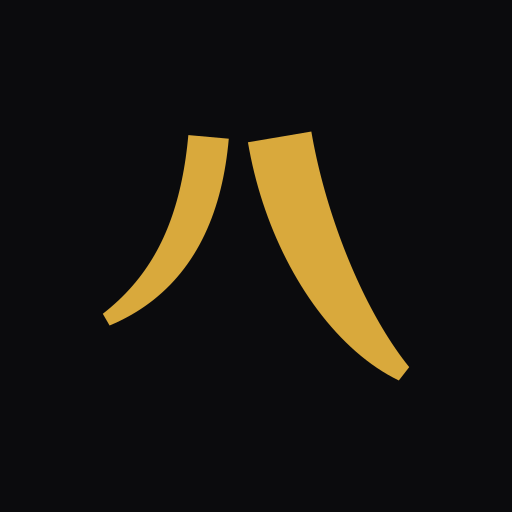
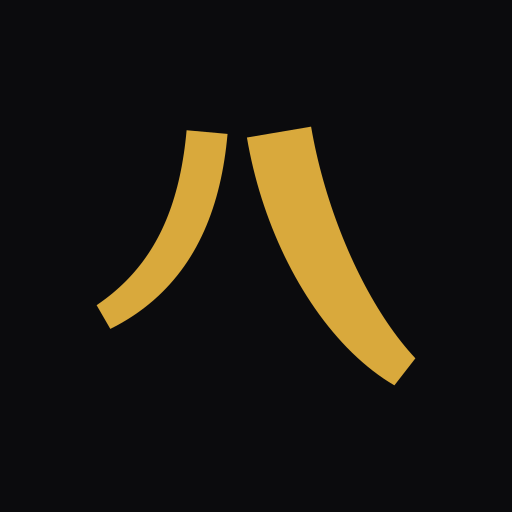
Drop the flat UI cut; one swept mark at every size (#7)
The second cut existed on the belief that a swept terminal dissolves at
favicon sizes. Measured, that was false — it was an artefact of tapering
too hard. Widening the tips from 4/5 to 8/10 makes the swept mark carry
the same ink as a flat one all the way down:

    size    swept 8/10    flat
    32px    192 solid     188
    20px     68            70
    16px     43            43
    12px     22            22

Identical at the two sizes that were supposed to justify the split, and
ahead at 32px. So `Cut`, `cutFor()` and `CUT_THRESHOLD_PX` are gone
along with the flat `uiStrokes()`, and `markPaths()`/`reachOf()` no
longer take an argument.

Two reasons this is the better answer and not merely the simpler one: a
blunt terminal says *stop*, which is the opposite of what 八百万 exists
to say; and an icon that differs between the favicon and the signage is
two icons, not one identity. brand.ts now carries the measurement, so
nobody re-derives the flat variant from the same wrong intuition.

Every raster is regenerated. They all grow slightly — heavier tips are
more ink, which is the point.

diff --git a/app/lib/brand.ts b/app/lib/brand.ts
@@ -33,17 +33,25 @@
        It was what put the old mark in the wrong category.
 
   ─────────────────────────────────────────────────────────────────────────
-  TWO CUTS, ONE SKELETON
+  ONE CUT, EVERYWHERE
   ─────────────────────────────────────────────────────────────────────────
-  A stroke that tapers to a point loses that point first: the swept cut starts
-  dissolving below ~22px, while the flat cut holds full mass and survives 12px.
-  So the mark is cut twice off identical geometry —
+  The terminals are swept and tapered, never flat. A blunt cut says stop; a
+  taper says continues, which is the only thing 八百万 is about.
 
-    display  swept terminals   above ~40px   hero, signage, print, film
-    ui       flat terminals    below ~40px   favicon, app icon, avatars, etched
+  There was briefly a second "UI" cut with flat ends, on the belief that a
+  taper dissolves at favicon sizes. Measured, that was false — it was an
+  artefact of tapering too hard. At tip widths 8 and 10 the swept mark carries
+  the SAME ink as a flat one all the way down:
 
-  Same asymmetry, same gap, same widening. Only the ends differ, which is well
-  under the threshold at which anyone perceives two logos.
+      size    swept 8/10      flat
+      32px    192 solid       188
+      20px     68              70
+      16px     43              43
+      12px     22              22
+
+  So there is one mark and it is used at every size, on every surface. Do not
+  reintroduce a flat variant: it blunts the character for no measurable gain,
+  and an icon that differs between the favicon and the signage is two icons.
 */
 
 export const VIEW = 200;
@@ -98,7 +106,7 @@ function uiStrokes(): Pt[][] {
     ];
 }
 
-// ── the display cut: a swept centreline, offset by an easing width ──────────
+// ── the mark: a swept centreline, offset by an easing width ────────────────
 type P = readonly [number, number];
 const bez = (a: P, b: P, c: P, d: P, t: number): Pt => {
     const u = 1 - t;
@@ -127,35 +135,27 @@ function sweepPts(p0: P, c0: P, c1: P, p1: P, w0: number, w1: number, ease = 2.2
     return [...A, ...B.reverse()];
 }
 function displayStrokes(): Pt[][] {
-    // half-widths 12 and 19 — identical to the UI cut, so the two read as one mark
+    // half-widths 12 and 19; tips 8 and 10 — heavy enough to hold at 12px
     return [
-        sweepPts([82.5, 38], [78, 88], [60, 124], [22, 146], 12, 4, 2.2),
-        sweepPts([124.5, 38], [134, 94], [162, 150], [198, 178], 19, 5, 2.2),
+        sweepPts([82.5, 38], [78, 88], [60, 124], [22, 146], 12, 8, 2.2),
+        sweepPts([124.5, 38], [134, 94], [162, 150], [198, 178], 19, 10, 2.2),
     ];
 }
 
-export type Cut = "display" | "ui";
-const BUILT: Record<Cut, { svg: string; reach: number }> = (() => {
-    const mk = (st: Pt[][]) => {
-        const c = centre(st);
-        return { svg: c.strokes.map(poly).join(""), reach: c.reach };
-    };
-    return { display: mk(displayStrokes()), ui: mk(uiStrokes()) };
+const BUILT = (() => {
+    const c = centre(displayStrokes());
+    return { svg: c.strokes.map(poly).join(""), reach: c.reach };
 })();
 
-/** Inner SVG for the mark, centred in a 200x200 viewBox. */
-export const markPaths = (cut: Cut = "display") => BUILT[cut].svg;
+/** Inner SVG for the mark, centred in a 200x200 viewBox. One cut, all sizes. */
+export const markPaths = () => BUILT.svg;
 /** Farthest the mark reaches from the centre, in viewBox units (max 100). */
-export const reachOf = (cut: Cut = "display") => BUILT[cut].reach;
+export const reachOf = () => BUILT.reach;
 
-/** Below this size, use the UI cut. */
-export const CUT_THRESHOLD_PX = 40;
-export const cutFor = (px: number): Cut => (px < CUT_THRESHOLD_PX ? "ui" : "display");
-
-export const markSvg = (fill: string, cut: Cut = "display", size?: number) =>
+export const markSvg = (fill: string, size?: number) =>
     `<svg xmlns="http://www.w3.org/2000/svg" viewBox="0 0 ${VIEW} ${VIEW}"`
     + (size ? ` width="${size}" height="${size}"` : "")
-    + ` fill="${fill}">${markPaths(cut)}</svg>`;
+    + ` fill="${fill}">${markPaths()}</svg>`;
 
 /*
   How much of the crop radius the mark may occupy.
@@ -169,15 +169,15 @@ export const CONTAINMENT = 0.74;
 
 /** Mark centred on its field and scaled by reach, so a circle never clips it. */
 export const tileSvg = (
-    { fill, ground, cut = "ui", radius = 0, containment = CONTAINMENT }:
-    { fill: string; ground: string; cut?: Cut; radius?: number; containment?: number }
+    { fill, ground, radius = 0, containment = CONTAINMENT }:
+    { fill: string; ground: string; radius?: number; containment?: number }
 ) => {
-    const k = (containment * C) / reachOf(cut);
+    const k = (containment * C) / reachOf();
     const off = C - C * k;
     return `<svg xmlns="http://www.w3.org/2000/svg" viewBox="0 0 ${VIEW} ${VIEW}" width="${VIEW}" height="${VIEW}">`
         + `<rect width="${VIEW}" height="${VIEW}"${radius ? ` rx="${radius}"` : ""} fill="${ground}"/>`
         + `<g transform="translate(${off.toFixed(2)} ${off.toFixed(2)}) scale(${k.toFixed(4)})" fill="${fill}">`
-        + `${markPaths(cut)}</g></svg>`;
+        + `${markPaths()}</g></svg>`;
 };
 
 // ── palette ─────────────────────────────────────────────────────────────────

diff --git a/app/components/brand/Logo.tsx b/app/components/brand/Logo.tsx
@@ -1,5 +1,5 @@
 import Link from "next/link";
-import { IDENTITY, markPaths, cutFor, SIGNAL_FILL } from "@/app/lib/brand";
+import { IDENTITY, markPaths, SIGNAL_FILL } from "@/app/lib/brand";
 
 /**
  * The 1 Martian Way mark — a standing figure: a circle head above two splayed
@@ -76,14 +76,13 @@ export function LogoGlyph({
                 <rect width="512" height="512" rx={radius || undefined} fill={IDENTITY.mark} />
             )}
             {/*
-                Two cuts off one skeleton — swept terminals above 40px, flat
-                below. A tapering stroke loses its tip first, so the display
-                cut dissolves at favicon sizes while the UI cut holds.
-                See app/lib/brand.ts for why the strokes are unequal.
+                One cut at every size. A flat-terminal variant was measured and
+                dropped — it carried no more ink at 12px and blunted the taper
+                that carries the whole idea. See app/lib/brand.ts.
             */}
             <g
                 fill={variant === "tile" ? "#FFFFFF" : "currentColor"}
-                dangerouslySetInnerHTML={{ __html: markPaths(cutFor(size)) }}
+                dangerouslySetInnerHTML={{ __html: markPaths() }}
             />
         </svg>
     );
